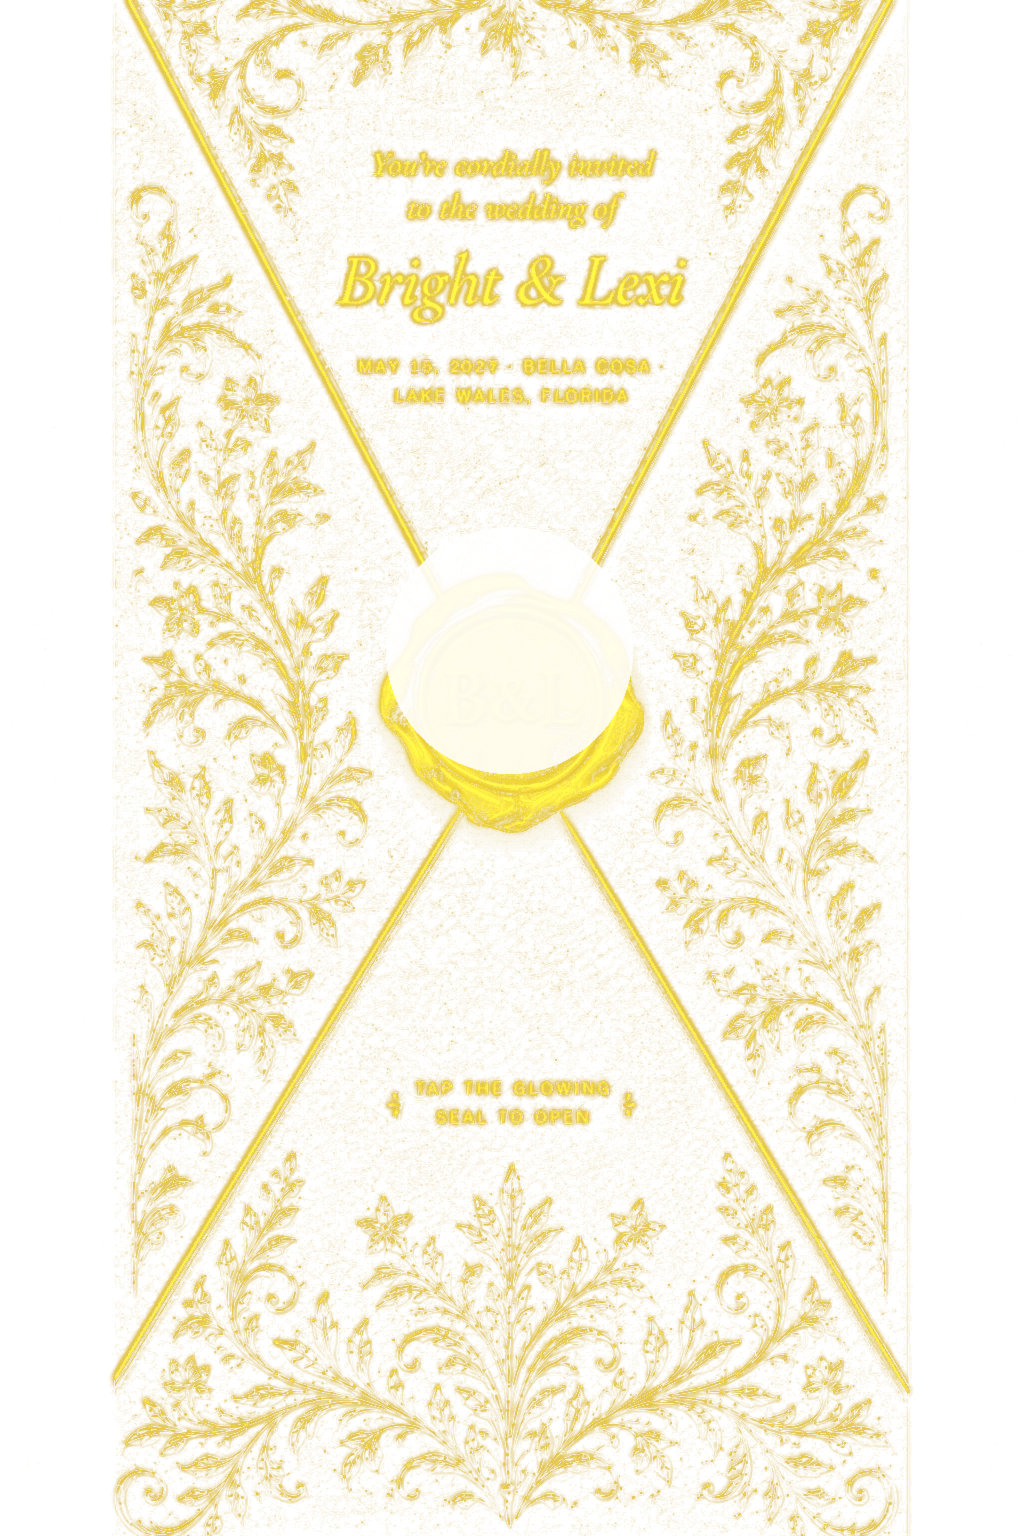
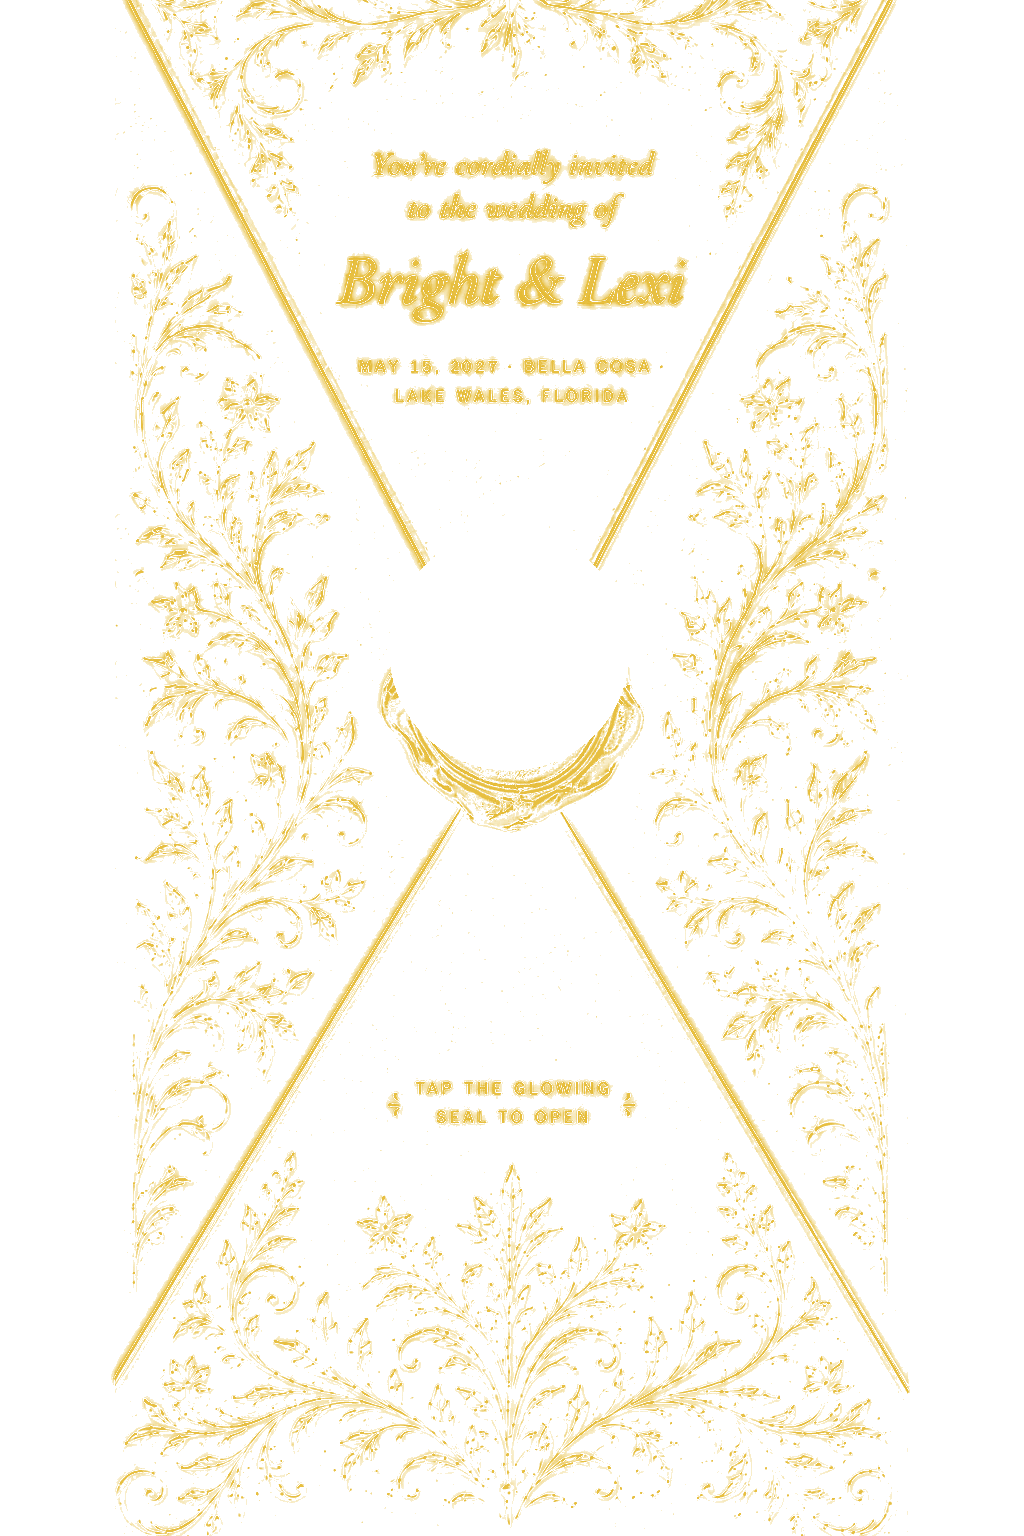
Emboss-only envelope glow and fix upload progress cycling
Regenerate floral/seal glow plates so only embossed creases and florals
illuminate, with the wax seal overlay sampled from master art. Fade the
seal overlay in directly instead of a generic radial mask.

Route photos ≤4 MB through the API form upload to avoid Blob SDK retry
loops; keep monotonic progress for larger direct Blob uploads and extend
client token TTL to 4 hours.

Changed region(s): [[0.0938, 0.0, 0.9062, 1.0]]

diff --git a/app/globals.css b/app/globals.css
@@ -406,22 +406,21 @@
     filter: none;
   }
 
-  /* Gold floral rim-light — progressive fill from the seal outward */
+  /* Gold floral rim-light — emboss + crease art only (transparent elsewhere) */
   .envelope-floral-glow {
     opacity: 0;
     mix-blend-mode: screen;
     pointer-events: none;
     z-index: 2;
     filter: none;
-    /* Keep full top crest visible — do not clip emboss tips */
     clip-path: none;
     -webkit-mask-image: radial-gradient(
       circle,
       #000 0%,
-      #000 82%,
+      #000 80%,
       transparent 100%
     );
-    mask-image: radial-gradient(circle, #000 0%, #000 82%, transparent 100%);
+    mask-image: radial-gradient(circle, #000 0%, #000 80%, transparent 100%);
     -webkit-mask-repeat: no-repeat;
     mask-repeat: no-repeat;
     -webkit-mask-position: var(--intro-seal-x, 49.78%) var(--intro-seal-y, 42.34%);
@@ -435,19 +434,16 @@
   }
 
   .envelope-floral-glow.is-lit {
-    opacity: 0.92;
-    /* Warm gold rim on emboss + creases — paper stays unfiltered */
-    filter: brightness(1.28) saturate(1.18) contrast(1.04)
-      sepia(0.12) hue-rotate(-4deg);
-    /* Oversized so top crest + bottom florals fully clear the fade edge */
+    opacity: 1;
+    /* PNG is emboss-only — no extra paper wash */
+    filter: brightness(1.12) saturate(1.08);
     -webkit-mask-size: 340% 340%;
     mask-size: 340% 340%;
   }
 
   .envelope-floral-glow-face.is-lit {
-    opacity: 0.92;
-    filter: brightness(1.28) saturate(1.18) contrast(1.04)
-      sepia(0.12) hue-rotate(-4deg);
+    opacity: 1;
+    filter: brightness(1.12) saturate(1.08);
   }
 
   /* Do not brighten the whole envelope paper on click */
@@ -470,14 +466,12 @@
     }
 
     .intro-monogram-glow.is-lit {
-      -webkit-mask-size: 100% 100%;
-      mask-size: 100% 100%;
-      -webkit-mask-image: none;
-      mask-image: none;
+      opacity: 1;
     }
   }
 
   .envelope-closed-master {
+    isolation: isolate;
     transform-origin: var(--intro-seal-x, 49.78%) var(--intro-seal-y, 42.34%);
     transition:
       opacity calc(var(--intro-open, 2800ms) * 0.85) ease,
@@ -529,48 +523,26 @@
     text-wrap: balance;
   }
 
-  /* Full wax-seal glow — warm halo matching the baked seal art */
+  /* Wax seal overlay — sampled from master art, fades in on tap */
   .intro-monogram-glow {
     opacity: 0;
     mix-blend-mode: screen;
     pointer-events: none;
     z-index: 3;
-    -webkit-mask-image: radial-gradient(
-      circle,
-      #000 0%,
-      #000 72%,
-      transparent 96%
-    );
-    mask-image: radial-gradient(circle, #000 0%, #000 72%, transparent 96%);
-    -webkit-mask-repeat: no-repeat;
-    mask-repeat: no-repeat;
-    -webkit-mask-position: var(--intro-seal-x, 49.78%) var(--intro-seal-y, 42.34%);
-    mask-position: var(--intro-seal-x, 49.78%) var(--intro-seal-y, 42.34%);
-    -webkit-mask-size: 0% 0%;
-    mask-size: 0% 0%;
     transition:
-      opacity calc(var(--intro-glow, 4500ms) * 0.45) cubic-bezier(0.22, 1, 0.36, 1)
-        var(--intro-monogram-delay, 900ms),
-      -webkit-mask-size calc(var(--intro-glow, 4500ms) * 0.55)
-        cubic-bezier(0.22, 1, 0.36, 1) var(--intro-monogram-delay, 900ms),
-      mask-size calc(var(--intro-glow, 4500ms) * 0.55)
-        cubic-bezier(0.22, 1, 0.36, 1) var(--intro-monogram-delay, 900ms);
+      opacity calc(var(--intro-glow, 4500ms) * 0.4) cubic-bezier(0.22, 1, 0.36, 1)
+        var(--intro-monogram-delay, 900ms);
   }
 
   .intro-monogram-glow.is-lit {
-    opacity: 0.88;
-    filter: brightness(1.12) saturate(1.15) sepia(0.08);
-    /* Sized to the wax disc in the new master art */
-    -webkit-mask-size: 24% 14.5%;
-    mask-size: 24% 14.5%;
+    opacity: 1;
+    filter: brightness(1.06) saturate(1.08);
   }
 
-  /* Idle twinkle on the full seal before the first tap */
+  /* Idle twinkle on the wax seal before the first tap */
   .intro-monogram-glow.is-idle-twinkle {
-    opacity: 0.38;
-    filter: brightness(1.08) saturate(1.1);
-    -webkit-mask-size: 22% 13%;
-    mask-size: 22% 13%;
+    opacity: 0.42;
+    filter: brightness(1.04);
     animation: intro-seal-twinkle 2.8s ease-in-out infinite;
   }
 
@@ -592,28 +564,7 @@
 
   .intro-seal-wrap.is-idle-twinkle .intro-seal-idle-aura,
   .intro-seal-wrap.is-seal-lit .intro-seal-idle-aura {
-    position: absolute;
-    inset: -10%;
-    border-radius: 50%;
-    pointer-events: none;
-    /* Warm seal halo aligned with mockup gold */
-    background:
-      radial-gradient(
-        circle,
-        rgb(250 220 120 / 0.28) 0%,
-        rgb(232 196 92 / 0.14) 38%,
-        rgb(212 175 55 / 0.05) 58%,
-        transparent 72%
-      );
-  }
-
-  .intro-seal-wrap.is-idle-twinkle .intro-seal-idle-aura {
-    animation: intro-seal-aura 2.8s ease-in-out infinite;
-  }
-
-  .intro-seal-wrap.is-seal-lit .intro-seal-idle-aura {
-    opacity: 0.9;
-    animation: none;
+    display: none;
   }
 
   .intro-seal-idle-aura {

diff --git a/components/admin/MediaAdminPanel.tsx b/components/admin/MediaAdminPanel.tsx
@@ -152,16 +152,18 @@ export function MediaAdminPanel() {
 
       let response: Response;
 
-      // Prefer direct Blob upload whenever Blob is configured (supports 10+ MB).
-      // Fall back to form upload for smaller files if the token step fails.
-      const useDirectBlob = blobConfigured;
+      // Small files go through the API in one shot (no Blob token / SDK retries).
+      // Direct Blob is only for larger photos that exceed the platform body limit.
+      const useDirectBlob =
+        blobConfigured && file.size > FORM_UPLOAD_SAFE_BYTES;
+
       if (useDirectBlob) {
         try {
           const pathname = `wedding/images/${crypto.randomUUID()}.${extensionForMime(mimeType)}`;
+          let uploadProgress = 0;
 
           async function fetchClientToken(path: string): Promise<string> {
             setUploadPhase("Authorizing upload…");
-            setProgress(0);
             const tokenResponse = await fetch("/api/media/photo/client-upload", {
               method: "POST",
               credentials: "include",
@@ -183,20 +185,26 @@ export function MediaAdminPanel() {
 
           async function putWithToken(path: string, token: string) {
             setUploadPhase("Uploading to storage…");
-            setProgress(1);
-            // Single-request put (no multipart). Multipart often stalls at 0% on
-            // mobile Safari; 15 MB is well within a direct client Blob put.
+            if (uploadProgress < 1) {
+              setProgress(1);
+            }
             return put(path, file, {
               access: "public",
               token,
               contentType: mimeType,
               multipart: false,
               onUploadProgress: ({ percentage }) => {
-                setProgress(Math.max(1, Math.min(99, Math.round(percentage))));
+                // Blob SDK retries reset percentage — keep the bar monotonic.
+                uploadProgress = Math.max(
+                  uploadProgress,
+                  Math.round(percentage),
+                );
+                setProgress(Math.max(1, Math.min(99, uploadProgress)));
               },
             });
           }
 
+          setProgress(0);
           let clientToken = await fetchClientToken(pathname);
           let blob;
           try {
@@ -204,8 +212,6 @@ export function MediaAdminPanel() {
           } catch (putError) {
             const msg =
               putError instanceof Error ? putError.message : String(putError);
-            // Token default was ~30s; if still expired (slow auth, clock skew),
-            // mint a fresh token once and retry the put.
             if (/expired/i.test(msg)) {
               setUploadPhase("Refreshing upload authorization…");
               clientToken = await fetchClientToken(pathname);
@@ -230,27 +236,11 @@ export function MediaAdminPanel() {
             }),
           });
         } catch (directError) {
-          if (file.size > FORM_UPLOAD_SAFE_BYTES) {
-            throw directError;
-          }
-          // Small-file fallback through the API (local/dev or Blob token hiccup).
-          setUploadPhase("Uploading…");
-          const form = new FormData();
-          form.set("file", file);
-          form.set("title", meta.title);
-          form.set("description", meta.description);
-          form.set("alt", meta.alt);
-          form.set("placementKey", meta.placementKey);
-          form.set("publish", meta.publish ? "true" : "false");
-          form.set("sortOrder", String(meta.sortOrder));
-          response = await fetch("/api/media/photo", {
-            method: "POST",
-            credentials: "include",
-            body: form,
-          });
+          throw directError;
         }
       } else {
         setUploadPhase("Uploading…");
+        setProgress(0);
         const form = new FormData();
         form.set("file", file);
         form.set("title", meta.title);

diff --git a/app/api/media/photo/client-upload/route.ts b/app/api/media/photo/client-upload/route.ts
@@ -43,9 +43,8 @@ export async function POST(request: Request): Promise<NextResponse> {
   }
 
   try {
-    // SDK default is only ~30s — too short for large mobile uploads.
-    // Cap is 24h; use 1h so slow networks still finish.
-    const validUntil = Date.now() + 60 * 60 * 1000;
+    // Cap is 24h; use 4h for slow mobile uploads with SDK retries.
+    const validUntil = Date.now() + 4 * 60 * 60 * 1000;
 
     const clientToken = await generateClientTokenFromReadWriteToken({
       token: requireBlobToken(),
